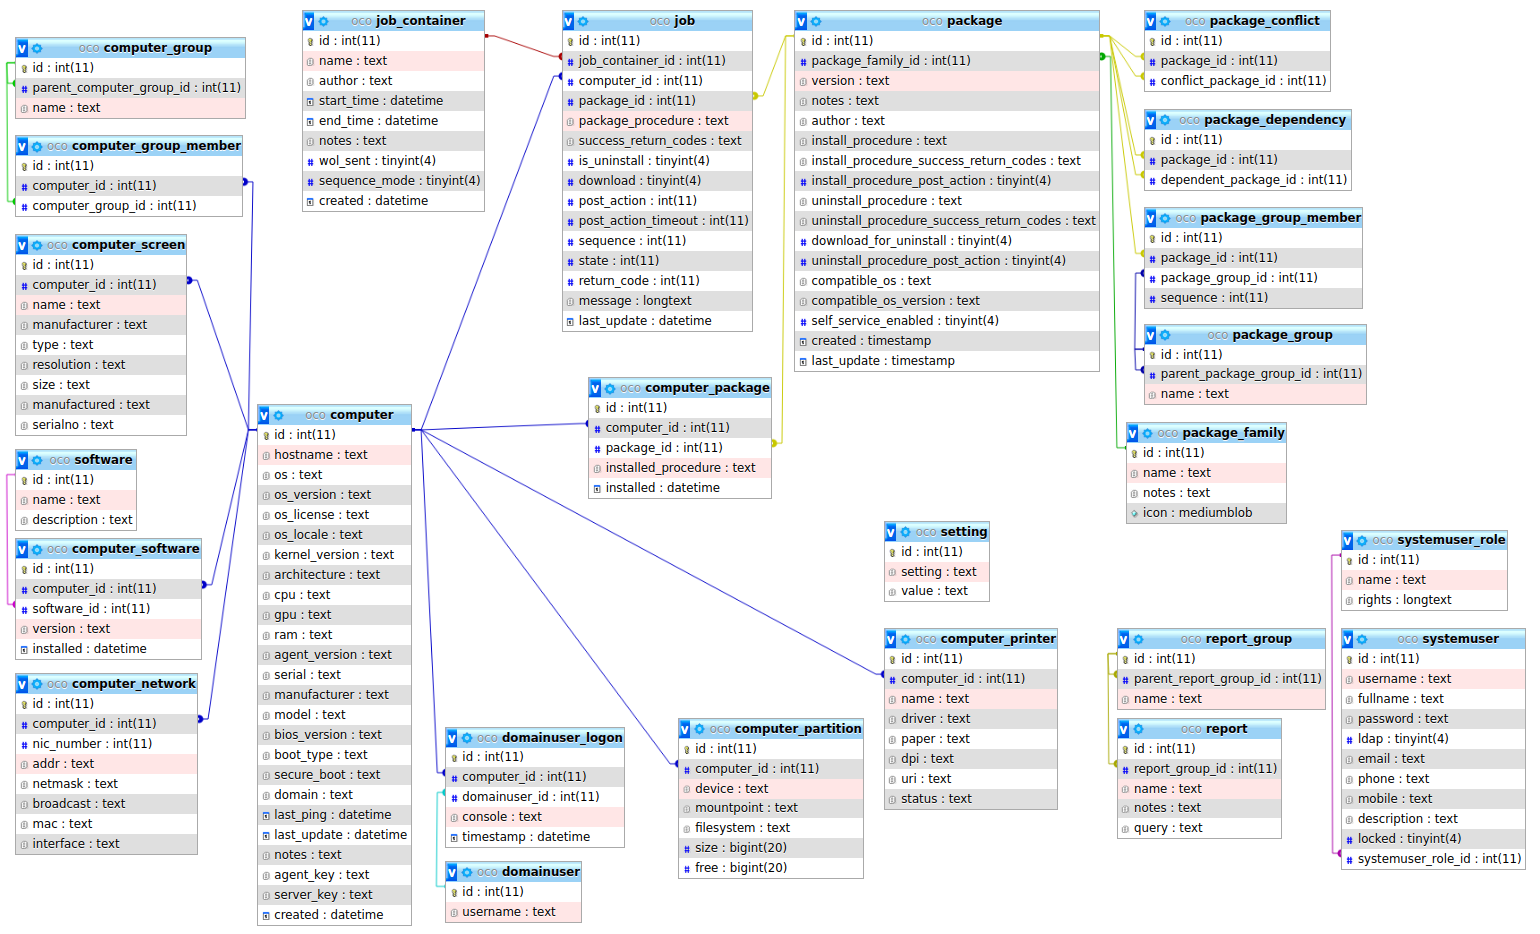
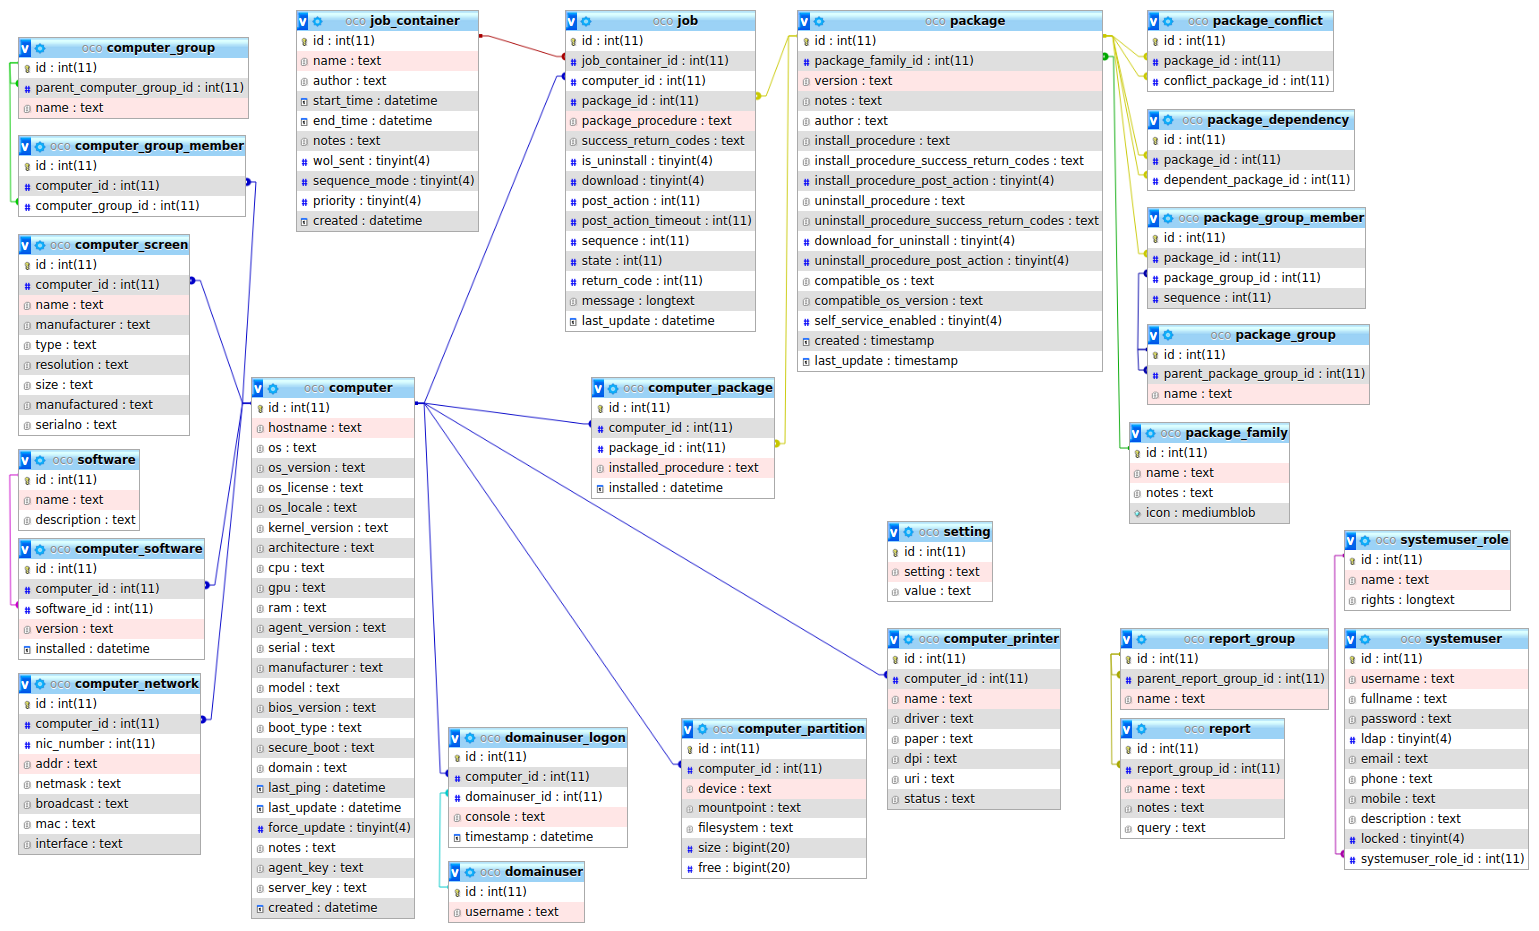
add computer:force_update and job_container:priority fields for future usage

diff --git a/lib/Db.php b/lib/Db.php
@@ -196,7 +196,7 @@ class Db {
 
 		// update general info
 		$this->stmt = $this->dbh->prepare(
-			'UPDATE computer SET hostname = :hostname, os = :os, os_version = :os_version, os_license = :os_license, os_locale = :os_locale, kernel_version = :kernel_version, architecture = :architecture, cpu = :cpu, gpu = :gpu, ram = :ram, agent_version = :agent_version, serial = :serial, manufacturer = :manufacturer, model = :model, bios_version = :bios_version, boot_type = :boot_type, secure_boot = :secure_boot, domain = :domain, last_ping = CURRENT_TIMESTAMP, last_update = CURRENT_TIMESTAMP WHERE id = :id'
+			'UPDATE computer SET hostname = :hostname, os = :os, os_version = :os_version, os_license = :os_license, os_locale = :os_locale, kernel_version = :kernel_version, architecture = :architecture, cpu = :cpu, gpu = :gpu, ram = :ram, agent_version = :agent_version, serial = :serial, manufacturer = :manufacturer, model = :model, bios_version = :bios_version, boot_type = :boot_type, secure_boot = :secure_boot, domain = :domain, last_ping = CURRENT_TIMESTAMP, last_update = CURRENT_TIMESTAMP, force_update = 0 WHERE id = :id'
 		);
 		if(!$this->stmt->execute([
 			':id' => $id,
@@ -1165,7 +1165,7 @@ class Db {
 			AND (j.state = '.Job::STATUS_WAITING_FOR_CLIENT.' OR j.state = '.Job::STATUS_DOWNLOAD_STARTED.' OR j.state = '.Job::STATUS_EXECUTION_STARTED.')
 			AND (jc.start_time IS NULL OR jc.start_time < CURRENT_TIMESTAMP)
 			AND (jc.end_time IS NULL OR jc.end_time > CURRENT_TIMESTAMP)
-			ORDER BY jc.created, j.sequence'
+			ORDER BY jc.priority DESC, jc.created ASC, j.sequence ASC'
 		);
 		$this->stmt->execute([':id' => $id]);
 		return $this->stmt->fetchAll();
@@ -1181,7 +1181,7 @@ class Db {
 			INNER JOIN job_container jc ON j.job_container_id = jc.id
 			WHERE j.computer_id = :id
 			AND (j.state = '.Job::STATUS_WAITING_FOR_CLIENT.' OR j.state = '.Job::STATUS_DOWNLOAD_STARTED.' OR j.state = '.Job::STATUS_EXECUTION_STARTED.')
-			ORDER BY jc.created, j.sequence'
+			ORDER BY jc.priority DESC, jc.created ASC, j.sequence ASC'
 		);
 		$this->stmt->execute([':id' => $id]);
 		return $this->stmt->fetchAll(PDO::FETCH_CLASS, 'Job');
@@ -1196,7 +1196,7 @@ class Db {
 			INNER JOIN job_container jc ON j.job_container_id = jc.id
 			WHERE j.package_id = :id
 			AND (j.state = '.Job::STATUS_WAITING_FOR_CLIENT.' OR j.state = '.Job::STATUS_DOWNLOAD_STARTED.' OR j.state = '.Job::STATUS_EXECUTION_STARTED.')
-			ORDER BY jc.created, j.sequence'
+			ORDER BY jc.priority DESC, jc.created ASC, j.sequence ASC'
 		);
 		$this->stmt->execute([':id' => $id]);
 		return $this->stmt->fetchAll(PDO::FETCH_CLASS, 'Job');

diff --git a/frontend/api-agent.php b/frontend/api-agent.php
@@ -134,7 +134,8 @@ switch($srcdata['method']) {
 			$db->updateComputerPing($computer->id);
 
 			// check if agent should update inventory data
-			if(time() - strtotime($computer->last_update) > $db->getSettingByName('agent-update-interval')) {
+			if(time() - strtotime($computer->last_update) > $db->getSettingByName('agent-update-interval')
+			|| !empty($computer->force_update)) {
 				$update = 1;
 			}
 
@@ -187,7 +188,7 @@ switch($srcdata['method']) {
 			if($computer !== null) {
 				$success = true;
 				$db->updateComputerPing($computer->id);
-				if(time() - strtotime($computer->last_update) > $db->getSettingByName('agent-update-interval')
+				if((time() - strtotime($computer->last_update) > $db->getSettingByName('agent-update-interval') || !empty($computer->force_update))
 				&& !empty($data)) {
 					// convert login timestamps to local time,
 					// because other timestamps in the database are also in local time

diff --git a/lib/Models.php b/lib/Models.php
@@ -26,6 +26,7 @@ class Computer {
 	public $secure_boot;
 	public $last_ping;
 	public $last_update;
+	public $force_update;
 	public $notes;
 	public $agent_key;
 	public $server_key;
@@ -165,6 +166,7 @@ class JobContainer {
 	public $notes;
 	public $wol_sent;
 	public $sequence_mode;
+	public $priority;
 	public $created;
 	// aggregated values
 	public $last_update;
